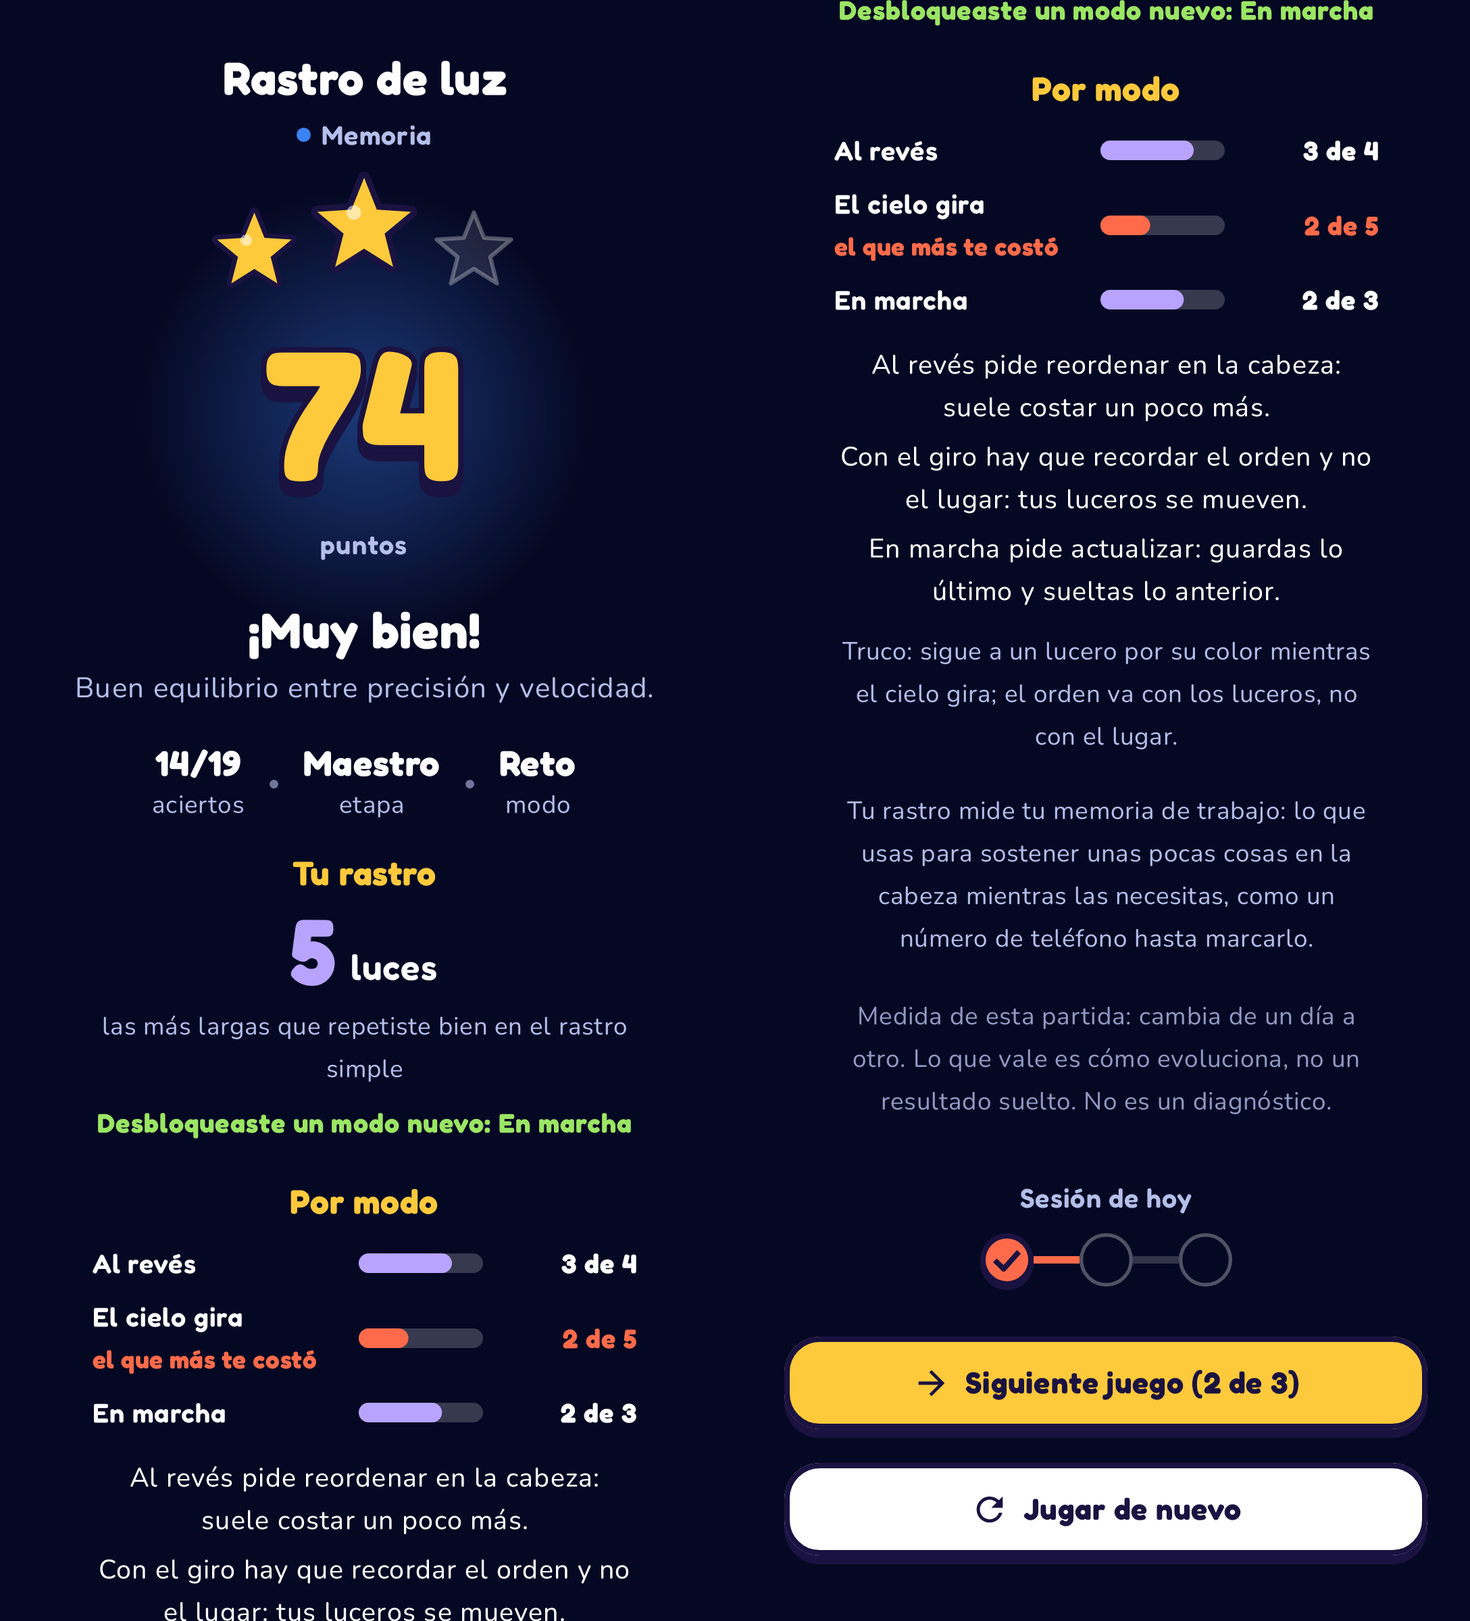
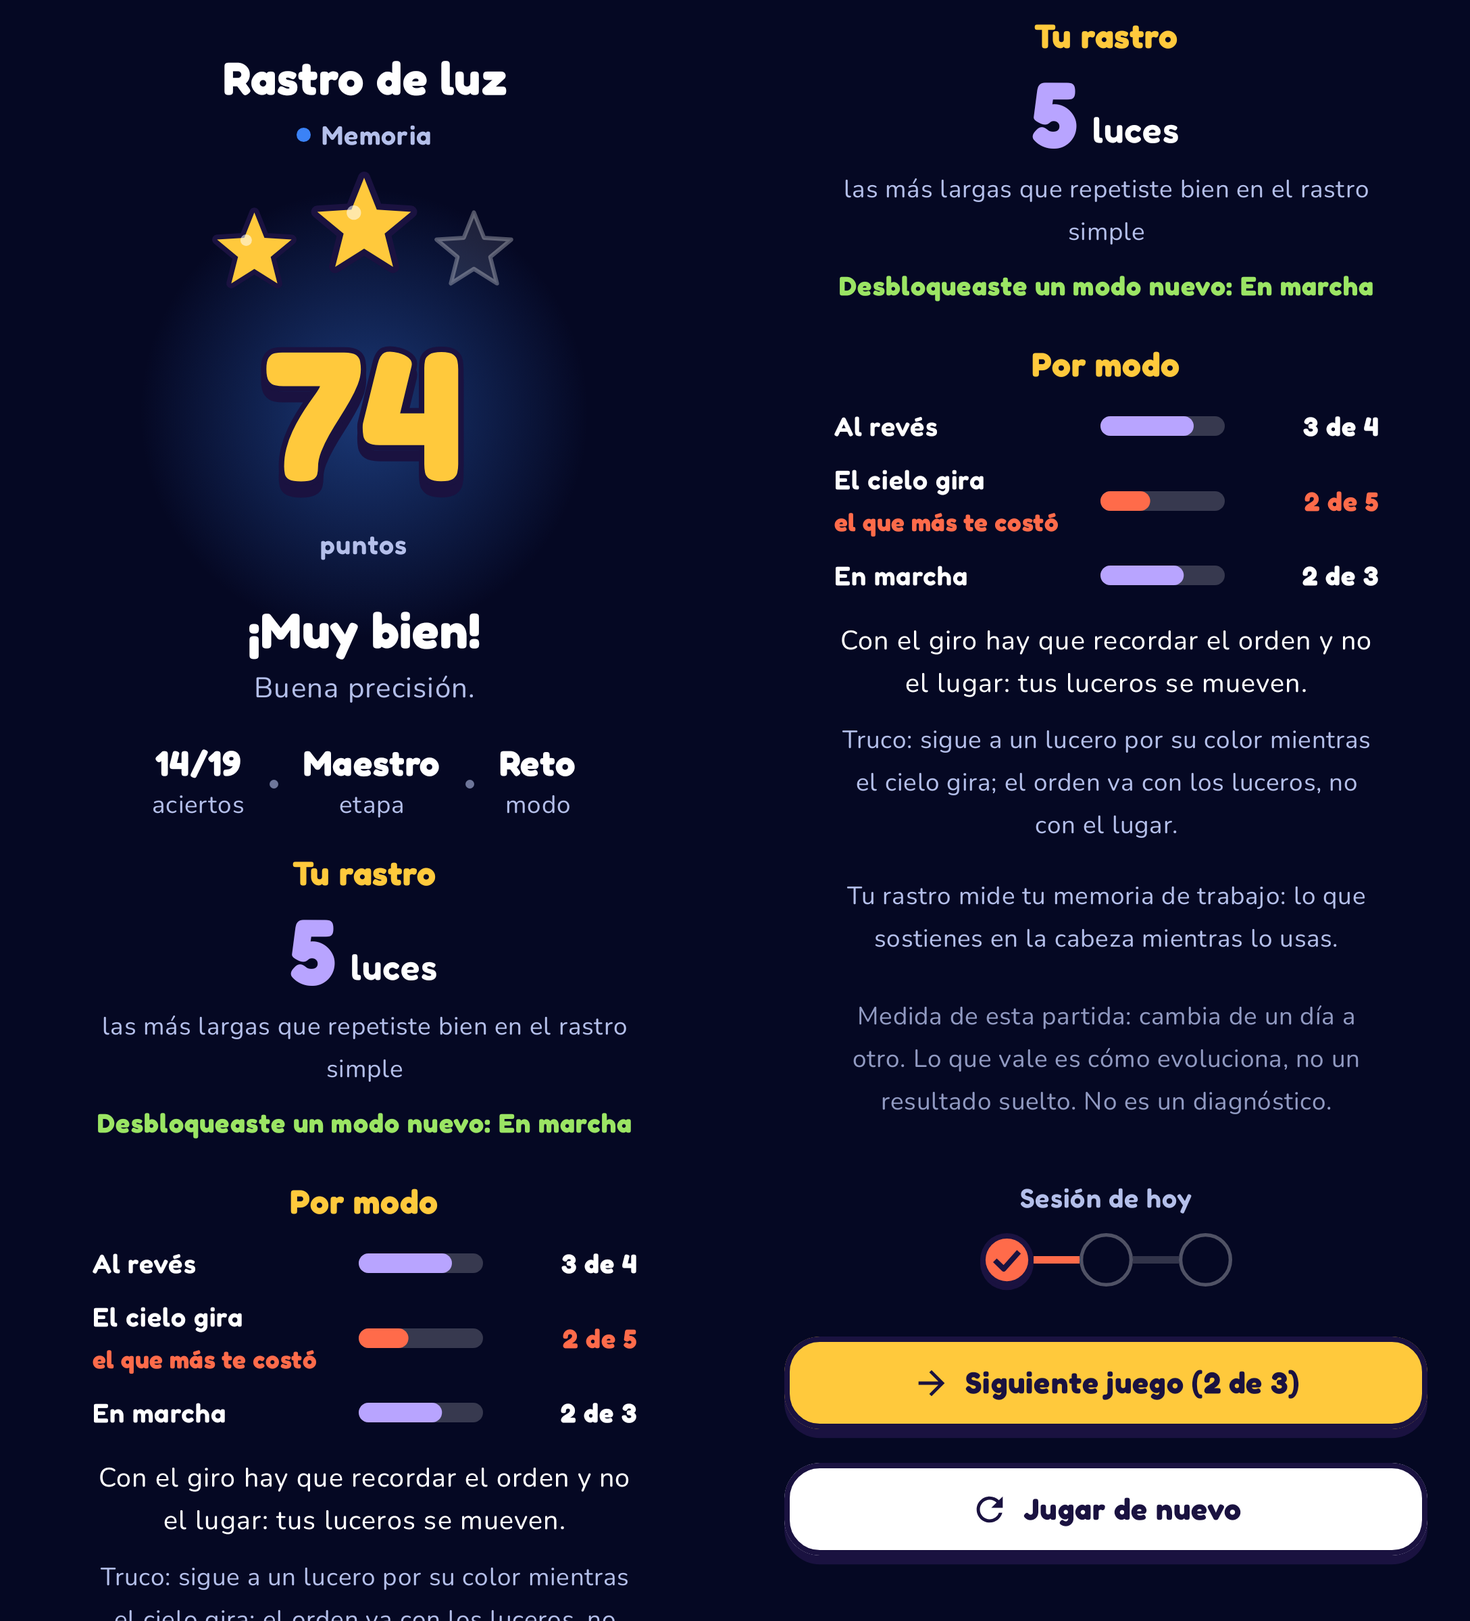
Rastro de luz: textos que no se cortan, frase de resultado sin «velocidad» y lectura final mas corta (tarea 20b)
- Rotulo de abajo, «¡NUEVO!» y tutorial con ajuste de linea (minimo 16 sp); el error dice «Esa no era» / «La correcta tiene el aro amarillo».
- ResultPhrases.feedback: «Buena / Muy buena precision» en los juegos cuyo puntaje no se apoya en la rapidez (secuencia, rutatesoro,
  bitacora, rumbo, satelites, aterrizaje, anagramas, intrusa); el resto no cambia.
- Lectura final: solo la linea y el truco del modo «el que mas te costo» y una oracion sobre la memoria de trabajo.

diff --git a/app/src/main/java/com/example/games/GameResultScreen.kt b/app/src/main/java/com/example/games/GameResultScreen.kt
@@ -75,6 +75,26 @@ import kotlin.math.roundToInt
 import kotlin.math.sin
 import kotlin.random.Random
 
+/**
+ * La frase de debajo del título. «Precisión y ritmo / equilibrio entre precisión y velocidad» solo vale donde el puntaje se apoya en la
+ * rapidez; los juegos de memoria, estimación o razonamiento sin tiempo de reacción dicen solo «precisión» (Rastro de luz no mide velocidad).
+ */
+object ResultPhrases {
+  /** Juegos cuyo puntaje y medida NO usan rapidez: ni tiempo de reacción en el motor ni una medida en ms o por segundo. */
+  val NO_SPEED_GAMES = setOf("secuencia", "rutatesoro", "bitacora", "rumbo", "satelites", "aterrizaje", "anagramas", "intrusa")
+
+  fun feedback(gameId: String, score: Int): String = when {
+    gameId in NO_SPEED_GAMES -> when {
+      score >= 85 -> "Muy buena precisión."
+      score >= 60 -> "Buena precisión."
+      else -> "La dificultad se ajusta a tu ritmo en cada partida."
+    }
+    score >= 85 -> "Precisión y ritmo excelentes."
+    score >= 60 -> "Buen equilibrio entre precisión y velocidad."
+    else -> "La dificultad se ajusta a tu ritmo en cada partida."
+  }
+}
+
 private val TextSoft = Color(0xFFB4BFEA) // secundario sobre el cielo nocturno (contraste > 7:1)
 
 /**
@@ -213,11 +233,7 @@ fun GameResultScreen(
       textAlign = TextAlign.Center
     )
     Text(
-      text = when {
-        result.score >= 85 -> "Precisión y ritmo excelentes."
-        result.score >= 60 -> "Buen equilibrio entre precisión y velocidad."
-        else -> "La dificultad se ajusta a tu ritmo en cada partida."
-      },
+      text = ResultPhrases.feedback(result.gameId, result.score),
       color = TextSoft,
       fontSize = 16.sp,
       textAlign = TextAlign.Center,
@@ -669,15 +685,11 @@ fun GameResultScreen(
         Column(Modifier.fillMaxWidth().padding(horizontal = 28.dp, vertical = 8.dp)) {
           rows.forEach { row -> TrailModeBar(row, Modifier.fillMaxWidth().padding(vertical = 3.dp)) }
         }
-        rows.forEach { row ->
-          trail.modeLine(row.mode)?.let {
-            Text(it, color = Clay.Cream, fontSize = 15.sp, textAlign = TextAlign.Center, modifier = Modifier.padding(horizontal = 28.dp, vertical = 2.dp))
-          }
-        }
-        rows.firstOrNull { it.lowest }?.let { low ->
-          trail.trick(low.mode)?.let {
-            Text(it, color = TextSoft, fontSize = 14.sp, textAlign = TextAlign.Center, modifier = Modifier.padding(horizontal = 28.dp, vertical = 8.dp))
-          }
+        trail.readingLines(rows).forEachIndexed { i, line ->
+          Text(
+            line, color = if (i == 0) Clay.Cream else TextSoft, fontSize = if (i == 0) 15.sp else 14.sp, textAlign = TextAlign.Center,
+            modifier = Modifier.padding(horizontal = 28.dp, vertical = if (i == 0) 2.dp else 6.dp)
+          )
         }
       }
       Text(trail.WORKING_MEMORY, color = TextSoft, fontSize = 14.sp, textAlign = TextAlign.Center, modifier = Modifier.padding(horizontal = 28.dp, vertical = 10.dp))

diff --git a/app/src/test/java/com/example/data/ResultPhrasesTest.kt b/app/src/test/java/com/example/data/ResultPhrasesTest.kt
@@ -1,0 +1,36 @@
+package com.example.data
+
+import com.example.games.ResultPhrases
+import org.junit.Assert.assertEquals
+import org.junit.Assert.assertFalse
+import org.junit.Assert.assertTrue
+import org.junit.Test
+
+/** La frase de debajo del título del resultado: lo de «velocidad» y «ritmo» solo donde el puntaje se apoya en la rapidez. */
+class ResultPhrasesTest {
+  @Test
+  fun `Rastro de luz no habla de velocidad`() {
+    for (score in listOf(0, 40, 59, 60, 70, 84, 85, 100)) {
+      val t = ResultPhrases.feedback("secuencia", score)
+      assertFalse(t, t.contains("velocidad", ignoreCase = true))
+      assertFalse(t, t.contains("ritmo", ignoreCase = true) && score >= 60)
+    }
+    assertEquals("Buena precisión.", ResultPhrases.feedback("secuencia", 74))
+    assertEquals("Muy buena precisión.", ResultPhrases.feedback("secuencia", 90))
+  }
+
+  @Test
+  fun `los juegos donde la rapidez cuenta conservan la frase de siempre`() {
+    for (id in listOf("stroop", "comparacion", "cambiochip", "series", "calculo", "radar", "freno", "piloto", "trafico", "disparate", "meteoros", "cosecha", "correo", "acoplamiento", "parejas")) {
+      assertEquals(id, "Buen equilibrio entre precisión y velocidad.", ResultPhrases.feedback(id, 70))
+      assertEquals(id, "Precisión y ritmo excelentes.", ResultPhrases.feedback(id, 90))
+      assertEquals(id, "La dificultad se ajusta a tu ritmo en cada partida.", ResultPhrases.feedback(id, 30))
+    }
+  }
+
+  @Test
+  fun `la lista de juegos sin rapidez es la que se reporta`() {
+    assertEquals(setOf("secuencia", "rutatesoro", "bitacora", "rumbo", "satelites", "aterrizaje", "anagramas", "intrusa"), ResultPhrases.NO_SPEED_GAMES)
+    assertTrue(ResultPhrases.feedback("intrusa", 10).contains("ajusta"))
+  }
+}

diff --git a/app/src/main/java/com/example/data/Trail.kt b/app/src/main/java/com/example/data/Trail.kt
@@ -63,9 +63,8 @@ object Trail {
 
   // ------------------------------------------------------------------ lectura en palabras (Nubi científica)
 
-  /** Qué es la memoria de trabajo, para quien lo lee por primera vez. */
-  const val WORKING_MEMORY =
-    "Tu rastro mide tu memoria de trabajo: lo que usas para sostener unas pocas cosas en la cabeza mientras las necesitas, como un número de teléfono hasta marcarlo."
+  /** Qué mide el rastro, en una oración. */
+  const val WORKING_MEMORY = "Tu rastro mide tu memoria de trabajo: lo que sostienes en la cabeza mientras lo usas."
 
   /** Una línea por modo (el que tuvo rondas suficientes), sin números: qué pide ese modo. */
   fun modeLine(mode: Int): String? = when (mode) {
@@ -81,6 +80,15 @@ object Trail {
     2 -> "Truco: sigue a un lucero por su color mientras el cielo gira; el orden va con los luceros, no con el lugar."
     3 -> "Truco: no esperes el final: ve guardando solo las últimas luces y suelta las primeras."
     else -> null
+  }
+
+  /**
+   * La lectura de la pantalla final: SOLO el modo marcado como «el que más te costó», con su línea y su truco. Sin modo marcado, ninguna
+   * (cada dato una vez, sin muros de texto).
+   */
+  fun readingLines(rows: List<ModeRow>): List<String> {
+    val low = rows.firstOrNull { it.lowest } ?: return emptyList()
+    return listOfNotNull(modeLine(low.mode), trick(low.mode))
   }
 
   /** El mensaje de modos nuevos de la partida («Desbloqueaste: Al revés»); null si no hubo. [bits]: 1 rastro, 2 al revés, 4 gira, 8 en marcha. */

diff --git a/app/src/test/java/com/example/data/TrailTest.kt b/app/src/test/java/com/example/data/TrailTest.kt
@@ -84,6 +84,23 @@ class TrailTest {
   }
 
   @Test
+  fun `la lectura es solo la del modo que mas costo, con su truco`() {
+    val rows = Trail.modeRows(rounds = listOf(6, 4, 4, 3), hits = listOf(5, 3, 1, 3))      // el cielo gira es el más bajo
+    val lines = Trail.readingLines(rows)
+    assertEquals(listOf(Trail.modeLine(2)!!, Trail.trick(2)!!), lines)
+    assertTrue(Trail.readingLines(Trail.modeRows(listOf(5, 4, 4, 4), listOf(5, 3, 3, 3))).isEmpty())   // empate: ninguno marcado, ninguna línea
+    assertTrue(Trail.readingLines(Trail.modeRows(listOf(5, 4, 0, 0), listOf(5, 2, 0, 0))).isEmpty())   // un solo modo
+    assertTrue(Trail.readingLines(emptyList()).isEmpty())
+  }
+
+  @Test
+  fun `el parrafo de memoria de trabajo es una sola oracion`() {
+    assertEquals(1, Trail.WORKING_MEMORY.count { it == '.' })
+    assertTrue(Trail.WORKING_MEMORY.endsWith("."))
+    assertTrue(Trail.WORKING_MEMORY.length < 100)
+  }
+
+  @Test
   fun `la lectura no promete salud ni compara con otras personas`() {
     val all = listOf(Trail.WORKING_MEMORY) + (1..3).flatMap { listOfNotNull(Trail.modeLine(it), Trail.trick(it)) }
     for (t in all) {

diff --git a/unity/NeuroVidaCore/Assets/Scripts/Games/Secuencia/RastroGameController.cs b/unity/NeuroVidaCore/Assets/Scripts/Games/Secuencia/RastroGameController.cs
@@ -456,7 +456,7 @@ namespace NeuroVida.Games.Secuencia
             right.Aro.gameObject.SetActive(true);
             PlayClip(RastroSounds.Wrong(), 1f);
             GameFeel.Haptic(GameFeel.HapticKind.Double);
-            Rule("Esa no era: la correcta tiene el aro amarillo", "");
+            Rule("Esa no era", "La correcta tiene el aro amarillo");
             yield return StartCoroutine(Motion.Hold(1.8f));
         }
 
@@ -1045,11 +1045,10 @@ namespace NeuroVida.Games.Secuencia
         {
             _rule = MakeText(_play, "Rule", 60, TextAnchor.MiddleCenter, Color.white, 3f, 0.4f);
             NeuroStyle.ClayText(_rule, 3f, 4f);
-            _rule.horizontalOverflow = HorizontalWrapMode.Wrap;
-            _rule.verticalOverflow = VerticalWrapMode.Overflow;
-            _sub = MakeText(_play, "Sub", 45, TextAnchor.MiddleCenter, Dim, 0f, 0f);
+            BestFit(_rule, 48);                       // se ajusta al ancho (ajuste de línea; si no cabe, achica hasta 16 sp): nunca se corta
+            _sub = MakeText(_play, "Sub", 48, TextAnchor.MiddleCenter, Dim, 0f, 0f);
             _sub.font = UiFonts.Regular;
-            _sub.horizontalOverflow = HorizontalWrapMode.Overflow;
+            BestFit(_sub, 45);
             foreach (var t in new[] { _rule, _sub })
             {
                 var r = t.rectTransform;
@@ -1076,9 +1075,11 @@ namespace NeuroVida.Games.Secuencia
             _unlockIcon.rectTransform.anchoredPosition = new Vector2(0f, 40f * UnitsPerDp);
             _unlockIcon.color = Color.white;
             _unlockName = TextAt(_unlockRoot, "Name", 96, Color.white, 0f, -50f);
+            BestFit(_unlockName, 60);
             _unlockLine = TextAt(_unlockRoot, "Line", 57, Rgb(217, 212, 245), 0f, -100f);
             _unlockLine.font = UiFonts.Regular;
-            _unlockLine.horizontalOverflow = HorizontalWrapMode.Wrap;
+            _unlockLine.rectTransform.sizeDelta = new Vector2(900f, 150f);      // hasta 2 líneas
+            BestFit(_unlockLine, 48);
             _unlockRoot.gameObject.SetActive(false);
         }
 
@@ -1190,10 +1191,10 @@ namespace NeuroVida.Games.Secuencia
             _sparkCore.rectTransform.sizeDelta = Vector2.one * (9f * _s);
 
             // rótulos de abajo: instrucción (20 sp) y línea de apoyo (15 sp)
-            _rule.rectTransform.sizeDelta = new Vector2(330f * _s, 56f * _s);
-            _rule.rectTransform.anchoredPosition = LogicalToPlay(new Vector2(180f, 566f));
-            _sub.rectTransform.sizeDelta = new Vector2(330f * _s, 28f * _s);
-            _sub.rectTransform.anchoredPosition = LogicalToPlay(new Vector2(180f, 600f));
+            _rule.rectTransform.sizeDelta = new Vector2(340f * _s, 58f * _s);
+            _rule.rectTransform.anchoredPosition = LogicalToPlay(new Vector2(180f, 562f));
+            _sub.rectTransform.sizeDelta = new Vector2(340f * _s, 30f * _s);
+            _sub.rectTransform.anchoredPosition = LogicalToPlay(new Vector2(180f, 606f));
             _rule.rectTransform.localScale = Vector3.one;
 
             LayoutHud();

diff --git a/unity/NeuroVidaCore/Assets/Scripts/Games/Shared/GuidedTutorial.cs b/unity/NeuroVidaCore/Assets/Scripts/Games/Shared/GuidedTutorial.cs
@@ -58,15 +58,17 @@ namespace NeuroVida.Games.Shared
             _nubi.raycastTarget = false;
 
             _title = Label(card, "Title", 72, new Vector2(0f, -70f), new Vector2(840f, 110f), NeuroStyle.Sun, TextAnchor.MiddleCenter);
+            BestFit(_title, 48);
             _line = Label(card, "Line", 54, new Vector2(0f, -240f), new Vector2(800f, 220f), Color.white, TextAnchor.MiddleCenter);
-            _line.horizontalOverflow = HorizontalWrapMode.Wrap;
-            _line.verticalOverflow = VerticalWrapMode.Overflow;
+            BestFit(_line, 48);                      // ajuste de línea; si no cabe, achica hasta 16 sp: nunca se corta
 
             _startRect = Button(card, "Start", new Vector2(0f, -430f), new Vector2(720f, 150f), NeuroStyle.Sun, NeuroStyle.Ink, out var startLabel);
             _startRect.GetComponentInChildren<Text>().text = "Probar una ronda";
+            BestFit(_startRect.GetComponentInChildren<Text>(), 48);
             _skipIntroRect = Panel(card, "SkipIntro", new Vector2(640f, 150f), new Vector2(0f, -560f), new Color(0f, 0f, 0f, 0f), 0f, 0f);
             var skipText = Label(_skipIntroRect, "Label", 54, Vector2.zero, new Vector2(640f, 150f), new Color(0.851f, 0.831f, 0.961f, 1f), TextAnchor.MiddleCenter);
             skipText.text = "Saltar tutorial";
+            BestFit(skipText, 45);
             _intro.gameObject.SetActive(false);
 
             // ---- durante la ronda guiada: rótulo arriba, mensaje de Nubi y «Saltar tutorial» abajo
@@ -80,12 +82,12 @@ namespace NeuroVida.Games.Shared
             badge.anchoredPosition = new Vector2(0f, -practiceTopU - 48f);
             var badgeText = Label(badge, "Label", 48, Vector2.zero, new Vector2(620f, 96f), NeuroStyle.Grape, TextAnchor.MiddleCenter);
             badgeText.text = "Práctica: no cuenta";
+            BestFit(badgeText, 45);
 
             _caption = Label(_practiceRoot, "Caption", 60, Vector2.zero, new Vector2(960f, 200f), Color.white, TextAnchor.MiddleCenter);
             _caption.rectTransform.anchorMin = _caption.rectTransform.anchorMax = new Vector2(0.5f, 0f);
             _caption.rectTransform.anchoredPosition = new Vector2(0f, 330f);
-            _caption.horizontalOverflow = HorizontalWrapMode.Wrap;
-            _caption.verticalOverflow = VerticalWrapMode.Overflow;
+            BestFit(_caption, 48);
             NeuroStyle.ClayText(_caption, 3f, 4f);
 
             _skipRect = Panel(_practiceRoot, "Skip", new Vector2(640f, 132f), Vector2.zero, NeuroStyle.WithAlpha(NeuroStyle.Surface, 0.92f), 4f, 8f);
@@ -93,6 +95,7 @@ namespace NeuroVida.Games.Shared
             _skipRect.anchoredPosition = new Vector2(0f, 12f * Dp + 66f);
             _skipPracticeLabel = Label(_skipRect, "Label", 54, Vector2.zero, new Vector2(620f, 132f), new Color(0.851f, 0.831f, 0.961f, 1f), TextAnchor.MiddleCenter);
             _skipPracticeLabel.text = "Saltar tutorial";
+            BestFit(_skipPracticeLabel, 45);
             _practiceRoot.gameObject.SetActive(false);
         }
 

diff --git a/tools/art-preview/rastro.py b/tools/art-preview/rastro.py
@@ -102,9 +102,10 @@ def screen(raw, mode=0):
         d.ellipse((cx - 6 * S, 28 * S - 6 * S, cx + 6 * S, 28 * S + 6 * S), fill=(255, 246, 224, 255) if i < 3 - (mode == 1) else (255, 255, 255, 46))
     d.text(((360 - 16) * S, 70 * S), str(5 + mode), font=ImageFont.truetype(FB, 32 * S), fill=(255, 255, 255), anchor='rm')
     d.text(((360 - 16) * S, 100 * S), 'luces recordadas', font=ImageFont.truetype(FR, 14 * S), fill=(171, 165, 210), anchor='rm')
-    rules = ['Mira el rastro', 'Esa no era: la correcta tiene el aro amarillo', '¡El cielo gira!', 'Repite las últimas 3']
-    d.text((180 * S, 566 * S), rules[mode], font=ImageFont.truetype(FB, 20 * S), fill=(255, 255, 255), anchor='mm')
-    d.text((180 * S, 596 * S), names[mode], font=ImageFont.truetype(FR, 15 * S), fill=(171, 165, 210), anchor='mm')
+    rules = ['Mira el rastro', 'Esa no era', '¡El cielo gira!', 'Repite las últimas 3']
+    subs = ['El rastro', 'La correcta tiene el aro amarillo', 'El cielo gira', 'En marcha']
+    d.text((180 * S, 562 * S), rules[mode], font=ImageFont.truetype(FB, 20 * S), fill=(255, 255, 255), anchor='mm')
+    d.text((180 * S, 606 * S), subs[mode], font=ImageFont.truetype(FR, 16 * S), fill=(171, 165, 210), anchor='mm')
     return im
 
 

diff --git a/docs/medidas-juegos-estrella.md b/docs/medidas-juegos-estrella.md
@@ -354,10 +354,9 @@ de memoria de trabajo y se relaciona con el razonamiento: Broadway y Engle, 2010
   evolución (más alto = mejor, comparable a ±1 nivel porque el largo depende del nivel de la escalera). Si no salió ningún rastro simple completo, no hay cifra:
   se dice con calma y con un consejo («toca una luz a la vez»), sin culpa.
 - **Por modo.** Para al revés, el cielo gira y en marcha: aciertos de rondas por modo, solo con **3 rondas o más** (con menos no se dice nada). El de menor
-  tasa se marca con el TEXTO «el que más te costó» (además del color coral) y solo si hay dos o más modos y no empatan todos. Bajo las filas, una línea por
-  modo (qué pide: «Al revés pide reordenar en la cabeza: suele costar un poco más») y UN truco concreto para el que más costó.
-- **Lectura.** «Tu rastro mide tu memoria de trabajo: lo que usas para sostener unas pocas cosas en la cabeza mientras las necesitas, como un número de
-  teléfono hasta marcarlo». Y, si hubo, «Desbloqueaste un modo nuevo: …» (un dato, una sola vez).
+  tasa se marca con el TEXTO «el que más te costó» (además del color coral) y solo si hay dos o más modos y no empatan todos. Bajo las filas, SOLO la línea del
+  modo marcado (qué pide: «Al revés pide reordenar en la cabeza: suele costar un poco más») y su truco concreto; sin modo marcado, ninguna.
+- **Lectura.** «Tu rastro mide tu memoria de trabajo: lo que sostienes en la cabeza mientras lo usas» (una oración). Y, si hubo, «Desbloqueaste un modo nuevo: …» (un dato, una sola vez).
 
 **Qué NO se dice.** Ningún percentil ni comparación con otras personas o con estudios (la condición no es comparable: luces, giro y sonido propios). No se
 dice que mida «tu memoria» como rasgo ni que entrene nada. Con pocas rondas es una pista, no un resultado: la nota común del pie lo recuerda. El límite

diff --git a/docs/diseno-rastro-de-luz.md b/docs/diseno-rastro-de-luz.md
@@ -188,3 +188,9 @@ anillo de respaldo), «en marcha» (exactamente las últimas N), al revés, giro
 siempre, «¡NUEVO!» una sola vez), ronda guiada sin rastro en el DDA, vidas y final de cada modo, telemetría. Kotlin: `TrailTest`, `TrailTelemetryTest`.
 Smoke: `Run` (la partida) y `Tutorial` (con la tarjeta de Nubi); `verificar-todo.sh --juegos Run,Tutorial --filtro-tests "Secuencia|Rastro|Tutorial"`.
 Marca de verificación: `estilo 3-oct · rastro`.
+
+**Retoques del 3-oct (tarea 20b).** (1) Los textos nunca se cortan: el rótulo de abajo y su línea, «¡NUEVO!» y el tutorial usan ajuste de línea y, si no cabe, achican
+hasta 16 sp (`UiKit.BestFit`); el error dice «Esa no era» y debajo «La correcta tiene el aro amarillo». (2) La frase común de la pantalla final («Buen equilibrio entre precisión
+y velocidad», «Precisión y ritmo excelentes») hablaba de velocidad: `ResultPhrases.feedback` la reemplaza por «Buena / Muy buena precisión» en los juegos cuyo puntaje no se apoya en la
+rapidez (`secuencia`, `rutatesoro`, `bitacora`, `rumbo`, `satelites`, `aterrizaje`, `anagramas`, `intrusa`); en los demás no cambia. (3) La lectura final es solo la línea y el truco del modo
+«el que más te costó» (`Trail.readingLines`) y una oración sobre la memoria de trabajo.
